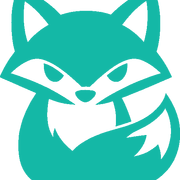
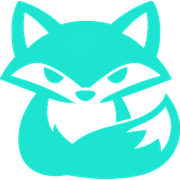
updated teal colors

diff --git a/src/lib/monaco-themes.ts b/src/lib/monaco-themes.ts
@@ -4,21 +4,21 @@ export const brutalistLightTheme: editor.IStandaloneThemeData = {
   base: 'vs',
   inherit: true,
   rules: [
-    { token: 'keyword', foreground: '0D9488', fontStyle: 'bold' },
+    { token: 'keyword', foreground: '1de5d2', fontStyle: 'bold' },
     { token: 'string', foreground: '16A34A' },
     { token: 'string.quote', foreground: '16A34A' },
     { token: 'number', foreground: 'B91C1C', fontStyle: 'bold' },
     { token: 'comment', foreground: '6B7280', fontStyle: 'italic' },
     { token: 'operator', foreground: '383838' },
     { token: 'identifier', foreground: '1A1A1A' },
-    { token: 'key', foreground: '0D9488', fontStyle: 'bold' },
+    { token: 'key', foreground: '1de5d2', fontStyle: 'bold' },
   ],
   colors: {
     'editor.background': '#FFFFFF',
     'editor.foreground': '#1A1A1A',
     'editor.lineHighlightBackground': '#F8F8F7',
-    'editor.selectionBackground': '#14B8A640',
-    'editorCursor.foreground': '#14B8A6',
+    'editor.selectionBackground': '#1de5d240',
+    'editorCursor.foreground': '#1de5d2',
     'editorLineNumber.foreground': '#9CA3AF',
     'editorLineNumber.activeForeground': '#383838',
   },
@@ -28,21 +28,21 @@ export const brutalistDarkTheme: editor.IStandaloneThemeData = {
   base: 'vs-dark',
   inherit: true,
   rules: [
-    { token: 'keyword', foreground: '14B8A6', fontStyle: 'bold' },
+    { token: 'keyword', foreground: '1de5d2', fontStyle: 'bold' },
     { token: 'string', foreground: '4ADE80' },
     { token: 'string.quote', foreground: '4ADE80' },
     { token: 'number', foreground: 'F87171', fontStyle: 'bold' },
     { token: 'comment', foreground: '9CA3AF', fontStyle: 'italic' },
     { token: 'operator', foreground: 'E5E7EB' },
     { token: 'identifier', foreground: 'F3F4F6' },
-    { token: 'key', foreground: '14B8A6', fontStyle: 'bold' },
+    { token: 'key', foreground: '1de5d2', fontStyle: 'bold' },
   ],
   colors: {
     'editor.background': '#1A1A1A',
     'editor.foreground': '#F3F4F6',
     'editor.lineHighlightBackground': '#2A2A2A',
-    'editor.selectionBackground': '#14B8A630',
-    'editorCursor.foreground': '#14B8A6',
+    'editor.selectionBackground': '#1de5d230',
+    'editorCursor.foreground': '#1de5d2',
     'editorLineNumber.foreground': '#6B7280',
     'editorLineNumber.activeForeground': '#E5E7EB',
   },
@@ -52,21 +52,21 @@ export const premiumDarkTheme: editor.IStandaloneThemeData = {
   base: 'vs-dark',
   inherit: true,
   rules: [
-    { token: 'keyword', foreground: '14B8A6', fontStyle: 'bold' },
+    { token: 'keyword', foreground: '1de5d2', fontStyle: 'bold' },
     { token: 'string', foreground: '34D399' },
     { token: 'string.quote', foreground: '34D399' },
     { token: 'number', foreground: 'F472B6', fontStyle: 'bold' },
     { token: 'comment', foreground: '525252', fontStyle: 'italic' },
     { token: 'operator', foreground: 'A3A3A3' },
     { token: 'identifier', foreground: 'E5E5E5' },
-    { token: 'key', foreground: '14B8A6', fontStyle: 'bold' },
+    { token: 'key', foreground: '1de5d2', fontStyle: 'bold' },
   ],
   colors: {
     'editor.background': '#1A1A1A',
     'editor.foreground': '#E5E5E5',
     'editor.lineHighlightBackground': '#262626',
-    'editor.selectionBackground': '#14B8A640',
-    'editorCursor.foreground': '#14B8A6',
+    'editor.selectionBackground': '#1de5d240',
+    'editorCursor.foreground': '#1de5d2',
     'editorLineNumber.foreground': '#525252',
     'editorLineNumber.activeForeground': '#A3A3A3',
   },

diff --git a/src/index.css b/src/index.css
@@ -129,22 +129,22 @@
   --color-text-muted: #9CA3AF;
 
   /* Primary Colors - Teal */
-  --color-primary: #14B8A6;
-  --color-primary-light: #2DD4BF;
-  --color-primary-dark: #0D9488;
+  --color-primary: #1de5d2;
+  --color-primary-light: #50ede0;
+  --color-primary-dark: #17c7b6;
 
   /* Accent Colors - All teal */
-  --color-accent-warm: #14B8A6;
-  --color-accent-cool: #14B8A6;
-  --color-accent-pink: #14B8A6;
+  --color-accent-warm: #1de5d2;
+  --color-accent-cool: #1de5d2;
+  --color-accent-pink: #1de5d2;
 
   /* Feature card colors - All teal */
-  --color-feature-orange: #14B8A6;
-  --color-feature-blue: #14B8A6;
-  --color-feature-purple: #14B8A6;
-  --color-feature-purple-light: #2DD4BF;
-  --color-feature-green: #14B8A6;
-  --color-feature-teal: #14B8A6;
+  --color-feature-orange: #1de5d2;
+  --color-feature-blue: #1de5d2;
+  --color-feature-purple: #1de5d2;
+  --color-feature-purple-light: #50ede0;
+  --color-feature-green: #1de5d2;
+  --color-feature-teal: #1de5d2;
 
   /* Border Colors - Black-based for light theme */
   --color-border-default: rgba(0, 0, 0, 0.30);
@@ -183,7 +183,7 @@
   --color-status-success: #22C55E;
   --color-status-warning: #F59E0B;
   --color-status-error: #EF4444;
-  --color-status-info: #14B8A6;
+  --color-status-info: #1de5d2;
 
   /* Navbar */
   --color-navbar-bg: rgba(255, 255, 255, 0.92);
@@ -252,10 +252,10 @@ h1, h2, h3, h4, h5, h6 {
 
 @keyframes glow-pulse {
   0%, 100% {
-    box-shadow: 0 0 20px rgba(20, 184, 166, 0.4);
+    box-shadow: 0 0 20px rgba(29, 229, 210, 0.4);
   }
   50% {
-    box-shadow: 0 0 30px rgba(20, 184, 166, 0.6);
+    box-shadow: 0 0 30px rgba(29, 229, 210, 0.6);
   }
 }
 

diff --git a/src/components/demo/hero-terminal.tsx b/src/components/demo/hero-terminal.tsx
@@ -83,7 +83,7 @@ export function HeroTerminal() {
   }, []);
 
   return (
-    <div className="group relative bg-code-bg border border-white/10 rounded-2xl overflow-hidden transition-all duration-500 hover:border-primary/30 hover:shadow-[0_0_50px_rgba(20,184,166,0.15)]">
+    <div className="group relative bg-code-bg border border-white/10 rounded-2xl overflow-hidden transition-all duration-500 hover:border-primary/30 hover:shadow-[0_0_50px_rgba(29,229,210,0.15)]">
       {/* macOS Chrome Header */}
       <div className="h-8 sm:h-10 bg-code-bg-elevated border-b border-white/10 flex items-center px-3 sm:px-4 gap-2">
         <div className="flex gap-1.5">
@@ -102,7 +102,7 @@ export function HeroTerminal() {
           <span className="text-code-text-muted hidden sm:inline">: </span>
           <span className="text-code-text ml-1">{displayCommand}</span>
           <span
-            className={`ml-0.5 text-primary transition-opacity ${showCursor ? 'opacity-100 drop-shadow-[0_0_8px_rgba(20,184,166,0.8)]' : 'opacity-0'}`}
+            className={`ml-0.5 text-primary transition-opacity ${showCursor ? 'opacity-100 drop-shadow-[0_0_8px_rgba(29,229,210,0.8)]' : 'opacity-0'}`}
           >
             █
           </span>

diff --git a/src/components/demo/docs-wip-terminal.tsx b/src/components/demo/docs-wip-terminal.tsx
@@ -117,7 +117,7 @@ export function DocsWipTerminal() {
                 href="https://github.com/reifydb/reifydb"
                 target="_blank"
                 rel="noopener noreferrer"
-                className="inline-flex items-center gap-2 px-6 py-3 bg-gradient-to-r from-primary to-accent-warm text-white font-semibold rounded-lg hover:shadow-[0_0_20px_rgba(20,184,166,0.4)] transition-all"
+                className="inline-flex items-center gap-2 px-6 py-3 bg-gradient-to-r from-primary to-accent-warm text-white font-semibold rounded-lg hover:shadow-[0_0_20px_rgba(29,229,210,0.4)] transition-all"
               >
                 View on GitHub
               </a>

diff --git a/src/components/amdahl.tsx b/src/components/amdahl.tsx
@@ -41,14 +41,14 @@ export function AmdahlSimulator() {
             -webkit-appearance: none;
             width: 14px;
             height: 14px;
-            background: #14B8A6;
+            background: #1de5d2;
             border-radius: 0;
             cursor: pointer;
           }
           .amdahl-slider::-moz-range-thumb {
             width: 14px;
             height: 14px;
-            background: #14B8A6;
+            background: #1de5d2;
             border-radius: 0;
             border: none;
             cursor: pointer;
